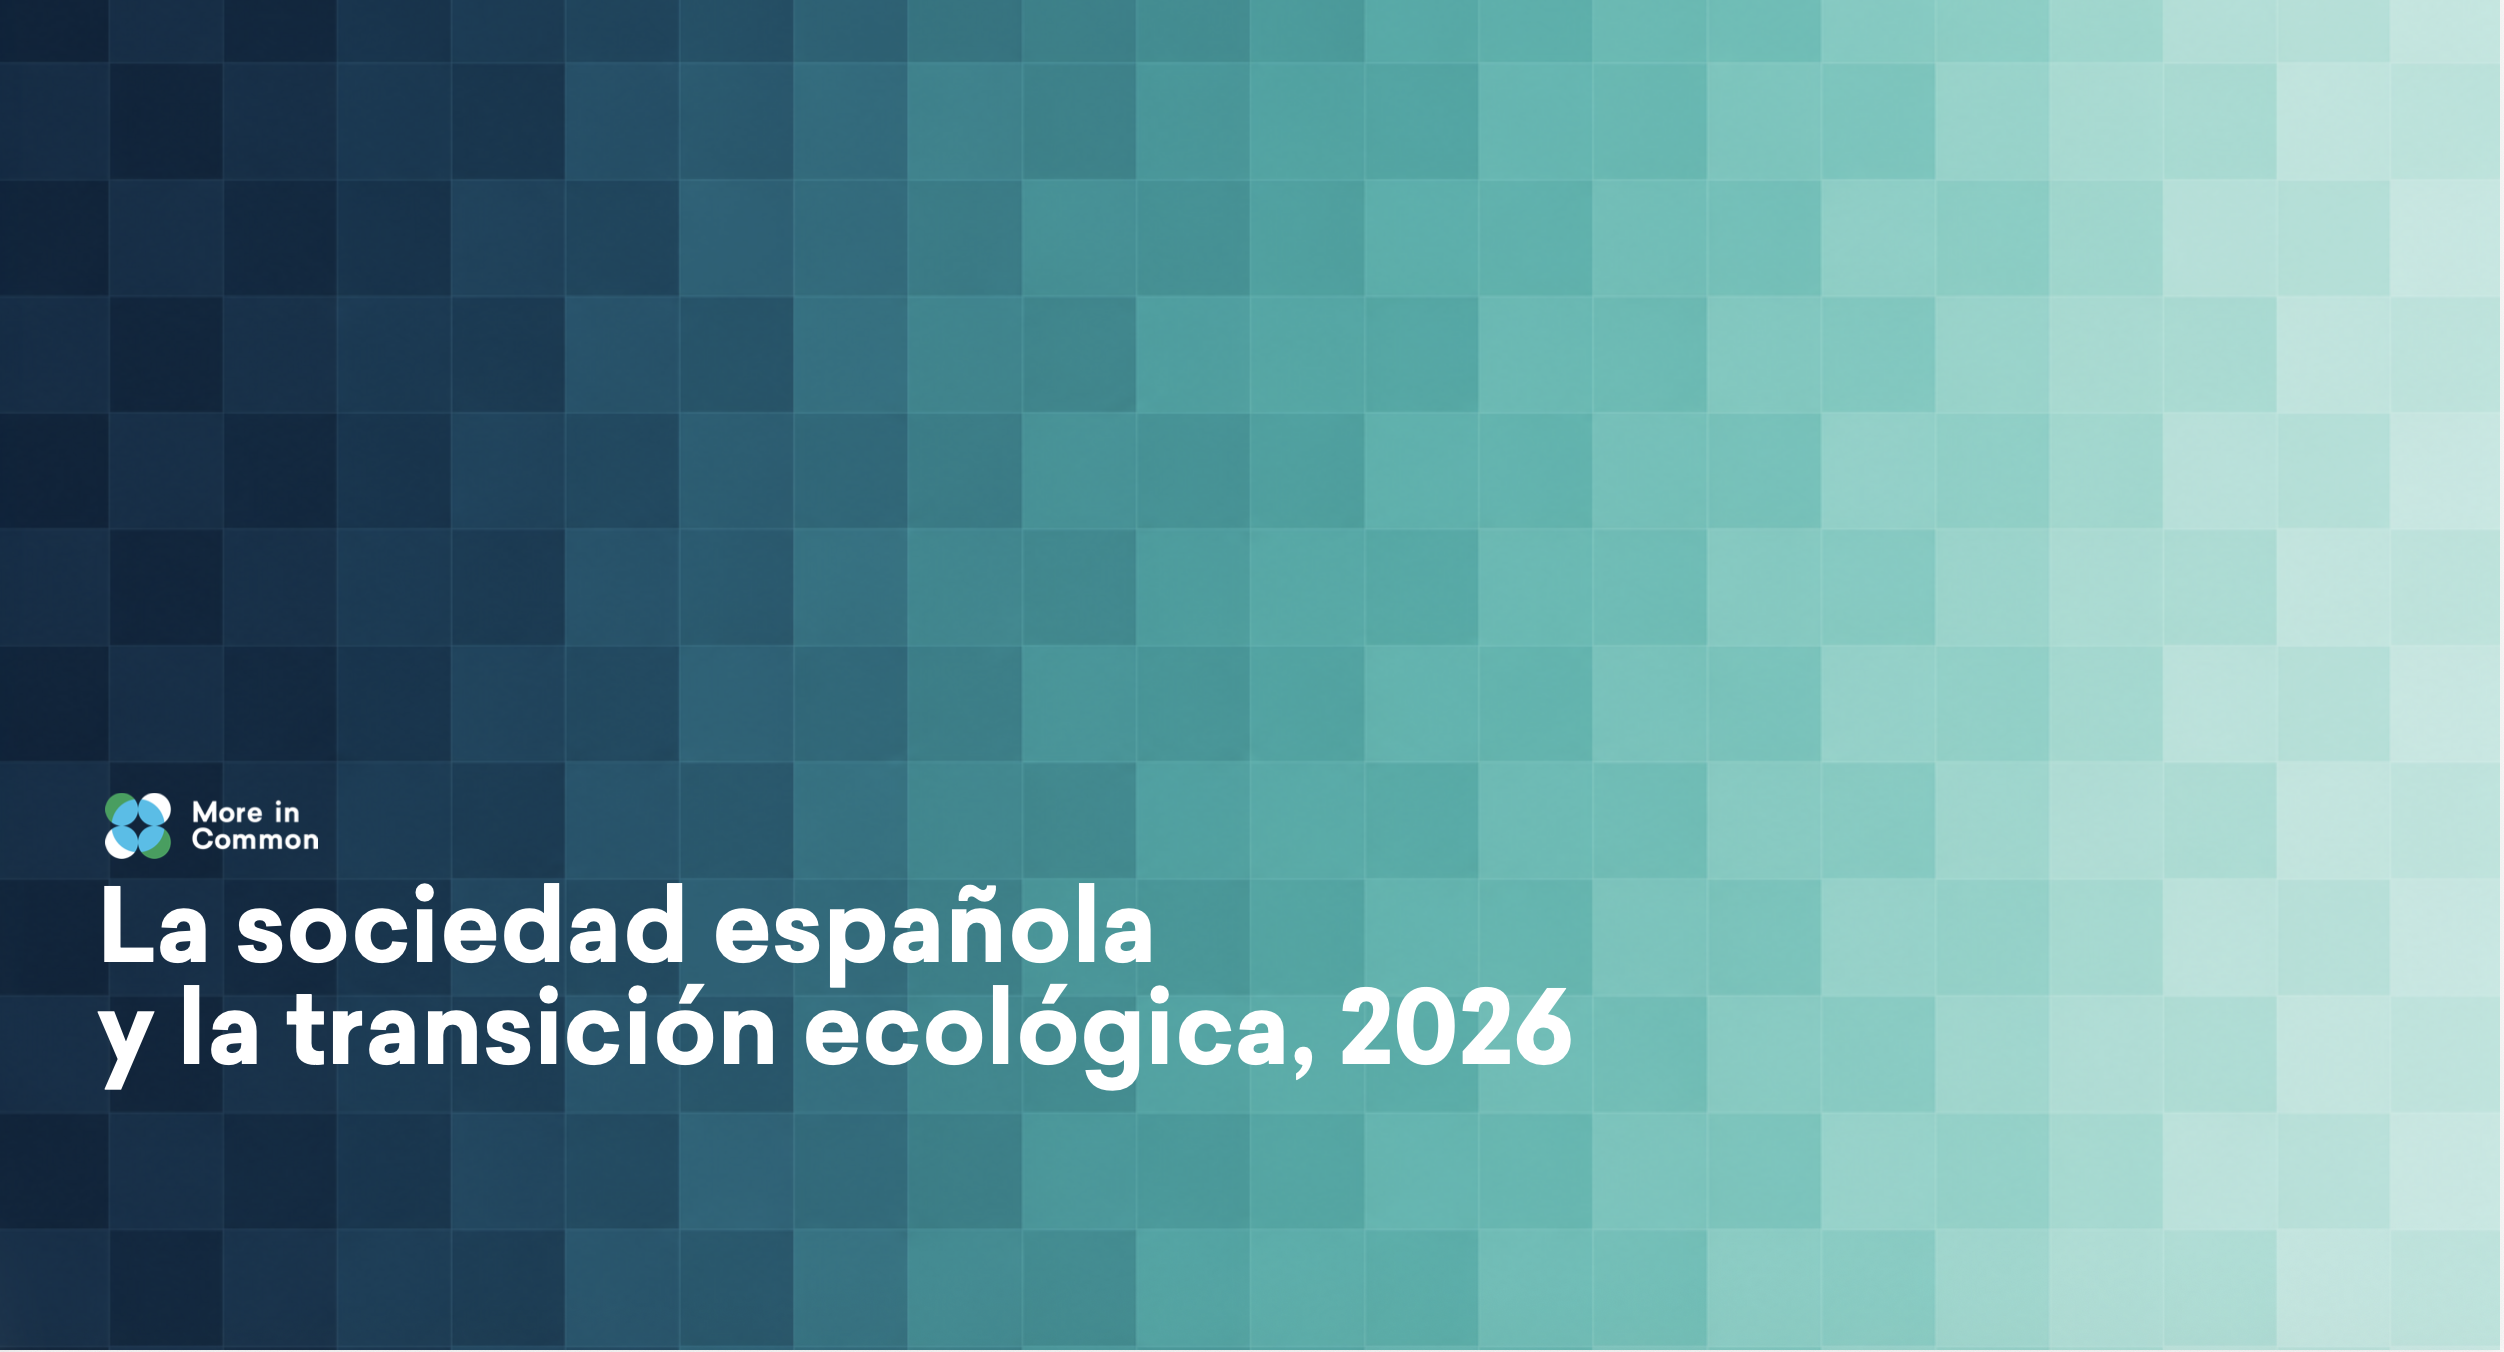
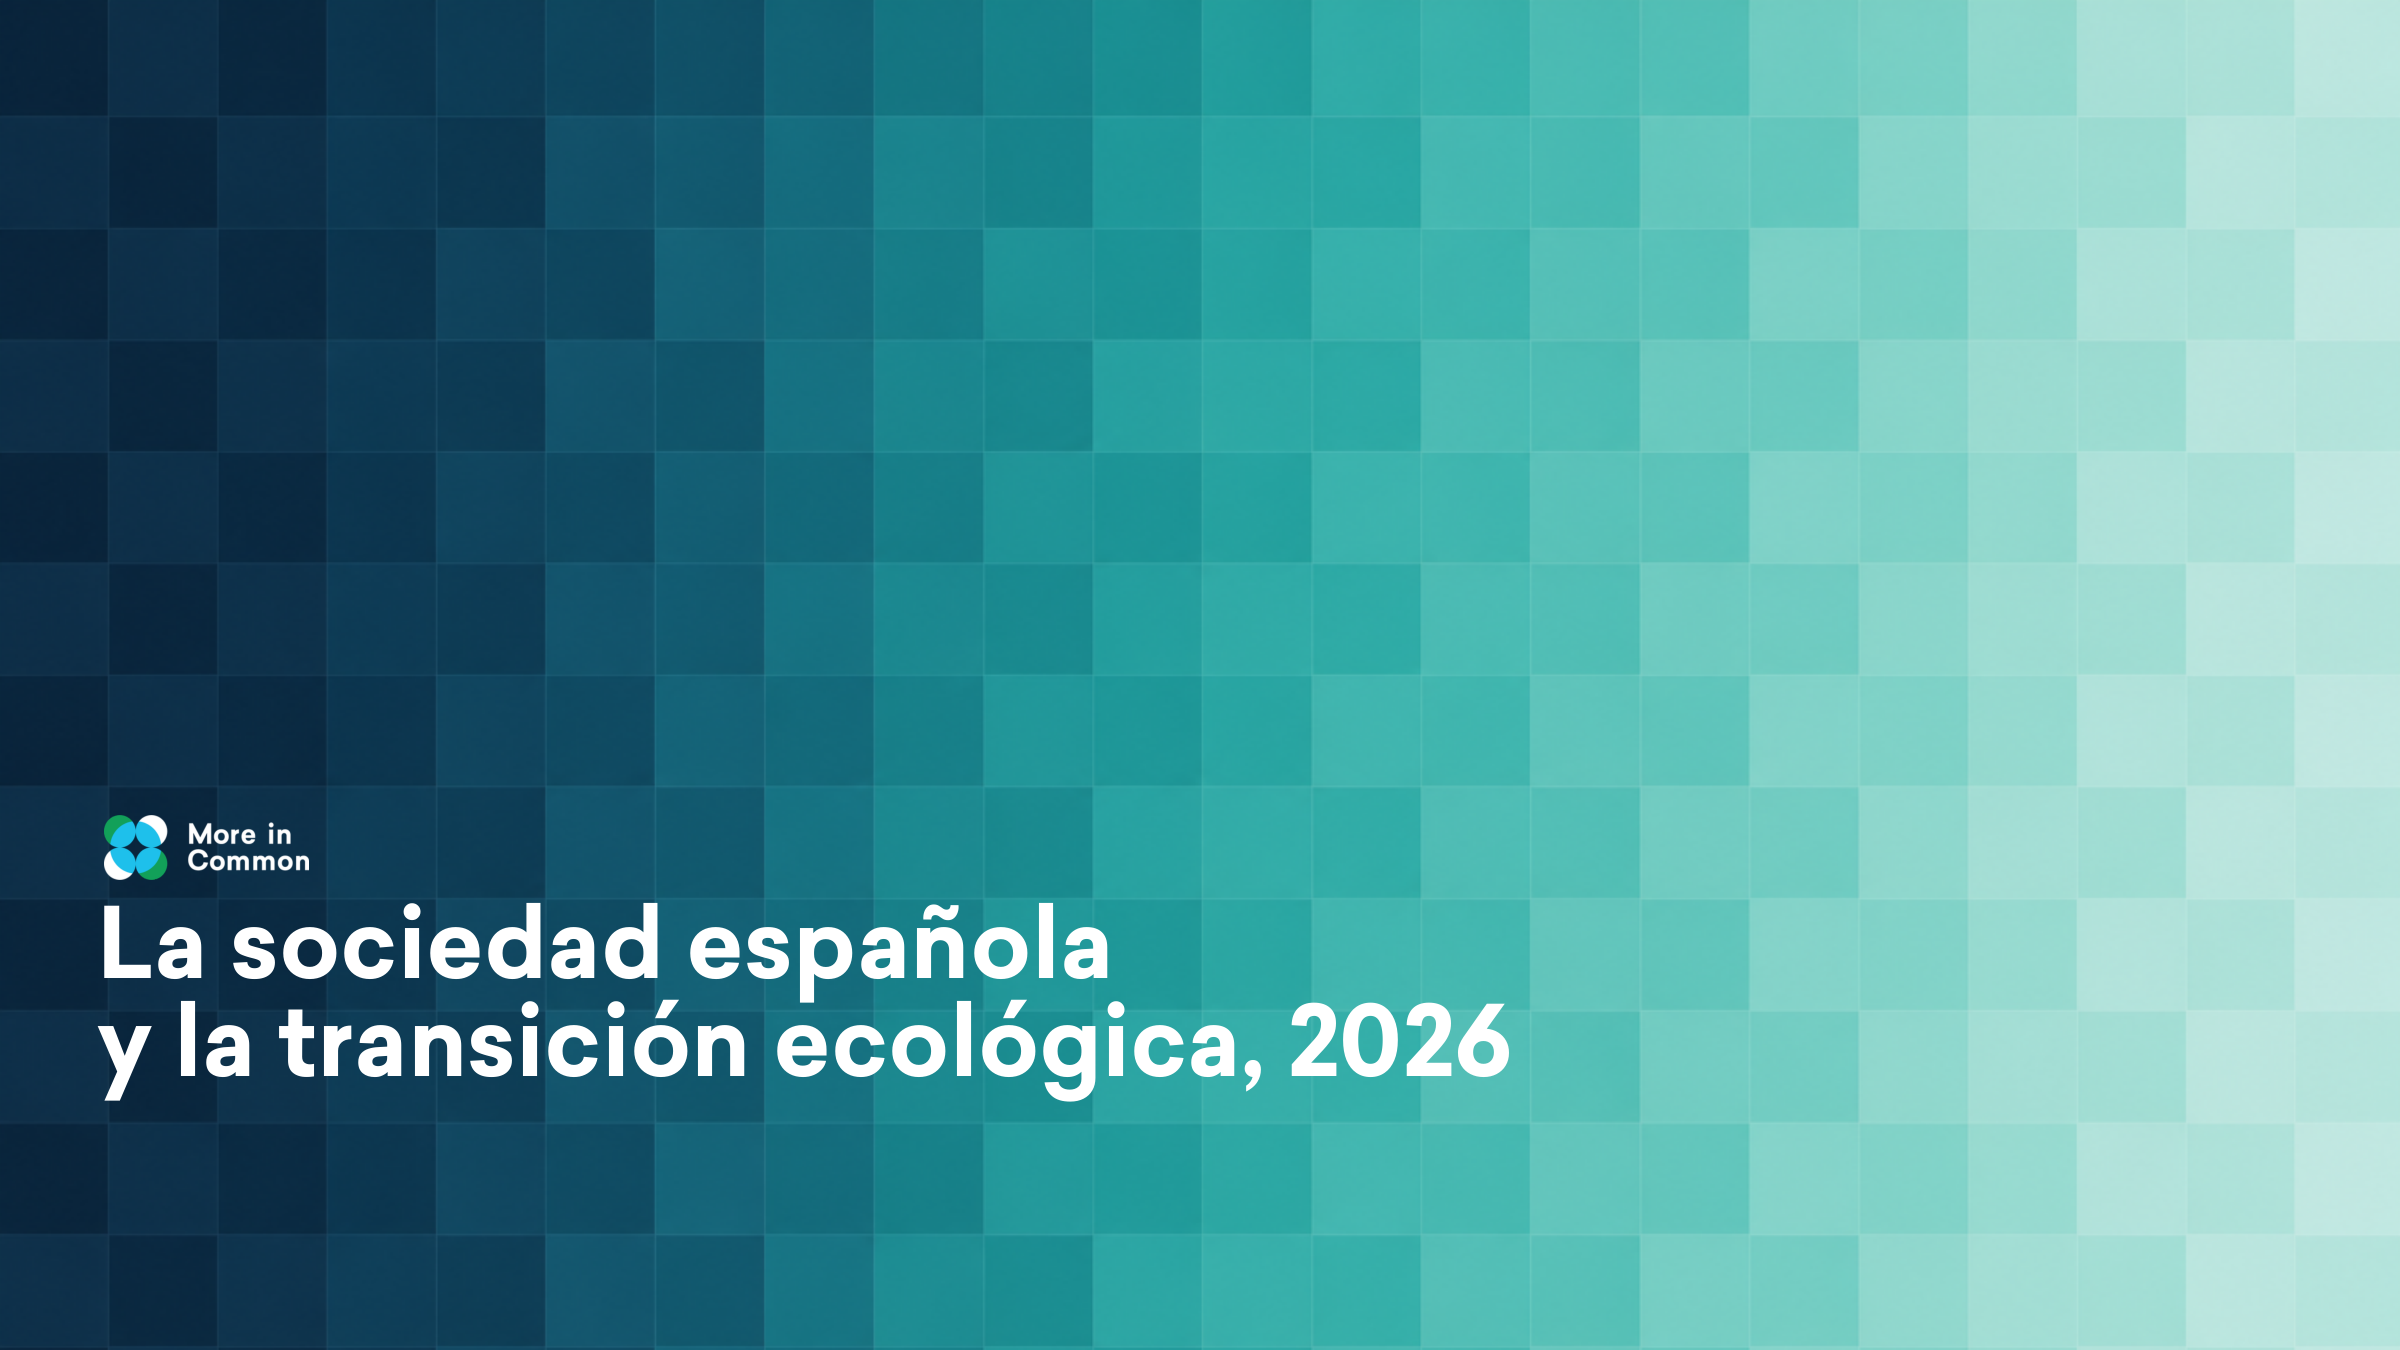
update

diff --git a/css/styles.css b/css/styles.css
@@ -838,7 +838,9 @@ ul {
 }
 
 .study-card-image {
-  height: 220px;
+  /* Las portadas son apaisadas (~16:9). Con una altura fija la caja cambiaba de
+     proporcion segun el ancho de columna y recortaba los titulos. */
+  aspect-ratio: 16 / 9;
   position: relative;
   overflow: hidden;
 }
